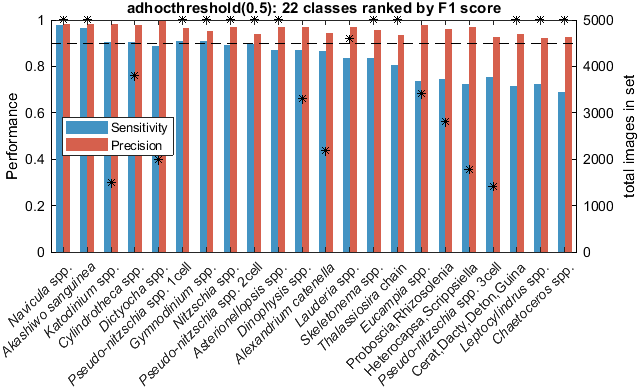
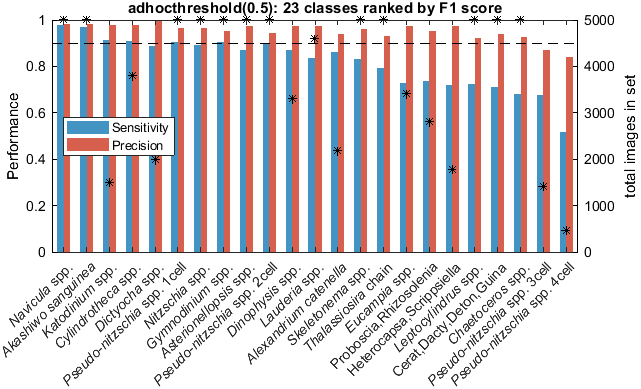
revised CCS NOAA OSY v5

diff --git a/IFCB-Tools/extractblobfeat_applyclassifier.m b/IFCB-Tools/extractblobfeat_applyclassifier.m
@@ -3,27 +3,27 @@
 clear;
 
 %%%% modify according to dataset
-%ifcbdir='D:\Shimada\'; 
-ifcbdir='D:\BuddInlet\';
+ifcbdir='D:\Shimada\'; 
+%ifcbdir='D:\BuddInlet\';
 %ifcbdir='D:\LabData\'; 
 %ifcbdir='D:\SCW\'; 
 %ifcbdir='D:\general\classifier\'; 
 
-%summarydir='C:\Users\ifcbuser\Documents\GitHub\bloom-baby-bloom\IFCB-Data\Shimada\';
-summarydir='C:\Users\ifcbuser\Documents\GitHub\bloom-baby-bloom\IFCB-Data\BuddInlet\';
+summarydir='C:\Users\ifcbuser\Documents\GitHub\bloom-baby-bloom\IFCB-Data\Shimada\';
+%summarydir='C:\Users\ifcbuser\Documents\GitHub\bloom-baby-bloom\IFCB-Data\BuddInlet\';
 %summarydir='C:\Users\ifcbuser\Documents\GitHub\bloom-baby-bloom\IFCB-Data\UCSC\SCW\';
 %summarydir=[ifcbdir 'summary\'];
 
-yr='2023';
+yr='2019';
 
 addpath(genpath(summarydir));
 addpath(genpath(ifcbdir));
 addpath(genpath('C:\Users\ifcbuser\Documents\GitHub\ifcb-analysis\'));
 addpath(genpath('C:\Users\ifcbuser\Documents\GitHub\bloom-baby-bloom\'));
 
-classifier='D:\general\classifier\summary\Trees_BI_NOAA-OSU_v2';
-%classifier='D:\general\classifier\summary\Trees_CCS_NOAA-OSU_v5';
-
+%classifier='D:\general\classifier\summary\Trees_BI_NOAA-OSU_v2';
+classifier='D:\general\classifier\summary\Trees_CCS_NOAA-OSU_v5';
+%%
 copy_data_into_folders('C:\SFTP-BuddInlet\2023\',[ifcbdir 'data\' yr '\']);
 
 % Step 2: Extract blobs
@@ -32,11 +32,13 @@ start_blob_batch_user_training([ifcbdir 'data\' yr '\'],[ifcbdir 'blobs\' yr '\'
 % Step 3: Extract features
 start_feature_batch_user_training([ifcbdir 'data\' yr '\'],[ifcbdir 'blobs\' yr '\'],[ifcbdir 'features\' yr '\'],true)
 
-% Step 4: Apply classifier
-start_classify_batch_user_training(classifier,[ifcbdir 'features\' yr '\'],[ifcbdir 'class\class' yr '_v1\']);
-%start_classify_batch_user_training(classifier,[ifcbdir 'features\' yr '\'],[ifcbdir 'class\CCS_NOAA-OSU_v5\class' yr '_v1\']);
+%% Step 4: Apply classifier
+%start_classify_batch_user_training(classifier,[ifcbdir 'features\' yr '\'],[ifcbdir 'class\class' yr '_v1\']);
+start_classify_batch_user_training(classifier,[ifcbdir 'features\' yr '\'],[ifcbdir 'class\CCS_NOAA-OSU_v5\class' yr '_v1\']);
+yr='2021';
+start_classify_batch_user_training(classifier,[ifcbdir 'features\' yr '\'],[ifcbdir 'class\CCS_NOAA-OSU_v5\class' yr '_v1\']);
 
-%% Step 5: Summaries
+% Step 5: Summaries
 summarydir_base='C:\Users\ifcbuser\Documents\GitHub\bloom-baby-bloom\';
 summaryfolder='IFCB-Data\Shimada\class\';
 classpath_generic = [ifcbdir 'class\CCS_NOAA-OSU_v5\classxxxx_v1\'];
@@ -51,7 +53,7 @@ summarize_biovol_from_classifier(summarydir_base,summaryfolder,classpath_generic
 summarize_PN_width_from_classifier([summarydir_base 'IFCB-Data\Shimada\class\'],...
     feapath_generic,roibasepath_generic,classpath_generic,2019:2021)
 
-
+%%
 summarize_biovol_from_manual([ifcbdir 'manual\'],[summarydir 'manual\'],...
     [ifcbdir 'data\'],[ifcbdir 'features\'],1/3.4)
 

diff --git a/IFCB-Tools/build_classifier/train_build_classifier.m b/IFCB-Tools/build_classifier/train_build_classifier.m
@@ -21,7 +21,7 @@ BUDDpath = 'D:\BuddInlet\';
 merge_manual_feafiles_SHMDA_OSU_LAB_BUDD(class2useName,mergedpath,OSUpath,SHMDApath,LABpath,BUDDpath)
 clearvars  mergedpath UCSCpath SHMDApath LABpath BUDDpath OSUpath;
 
-% Step 2: select classes of interest and find class2skip
+%% Step 2: select classes of interest and find class2skip
 % Regional CCS classifier
 load([filepath 'bloom-baby-bloom\NOAA\Shimada\Data\seascape_topclasses'],'SS');
 SS(end).topclasses(end+1)={'Navicula'};
@@ -54,7 +54,7 @@ manualpath = 'D:\general\classifier\manual_merged_selectOSU\'; % manual annotati
 feapath_base = 'D:\general\classifier\features_merged_selectOSU\'; %feature file location, assumes \yyyy\ organization
 outpath = 'D:\general\classifier\summary\'; % location to save training set
 maxn = 5000; %maximum number of images per class to include
-minn = 1000; %minimum number for inclusion
+minn = 400; %minimum number for inclusion
 class2group={{'Pseudo-nitzschia_small_1cell' 'Pseudo-nitzschia_large_1cell'}...
         {'Pseudo-nitzschia_small_2cell' 'Pseudo-nitzschia_large_2cell'}...
         {'Pseudo-nitzschia_small_3cell' 'Pseudo-nitzschia_large_3cell'}...
